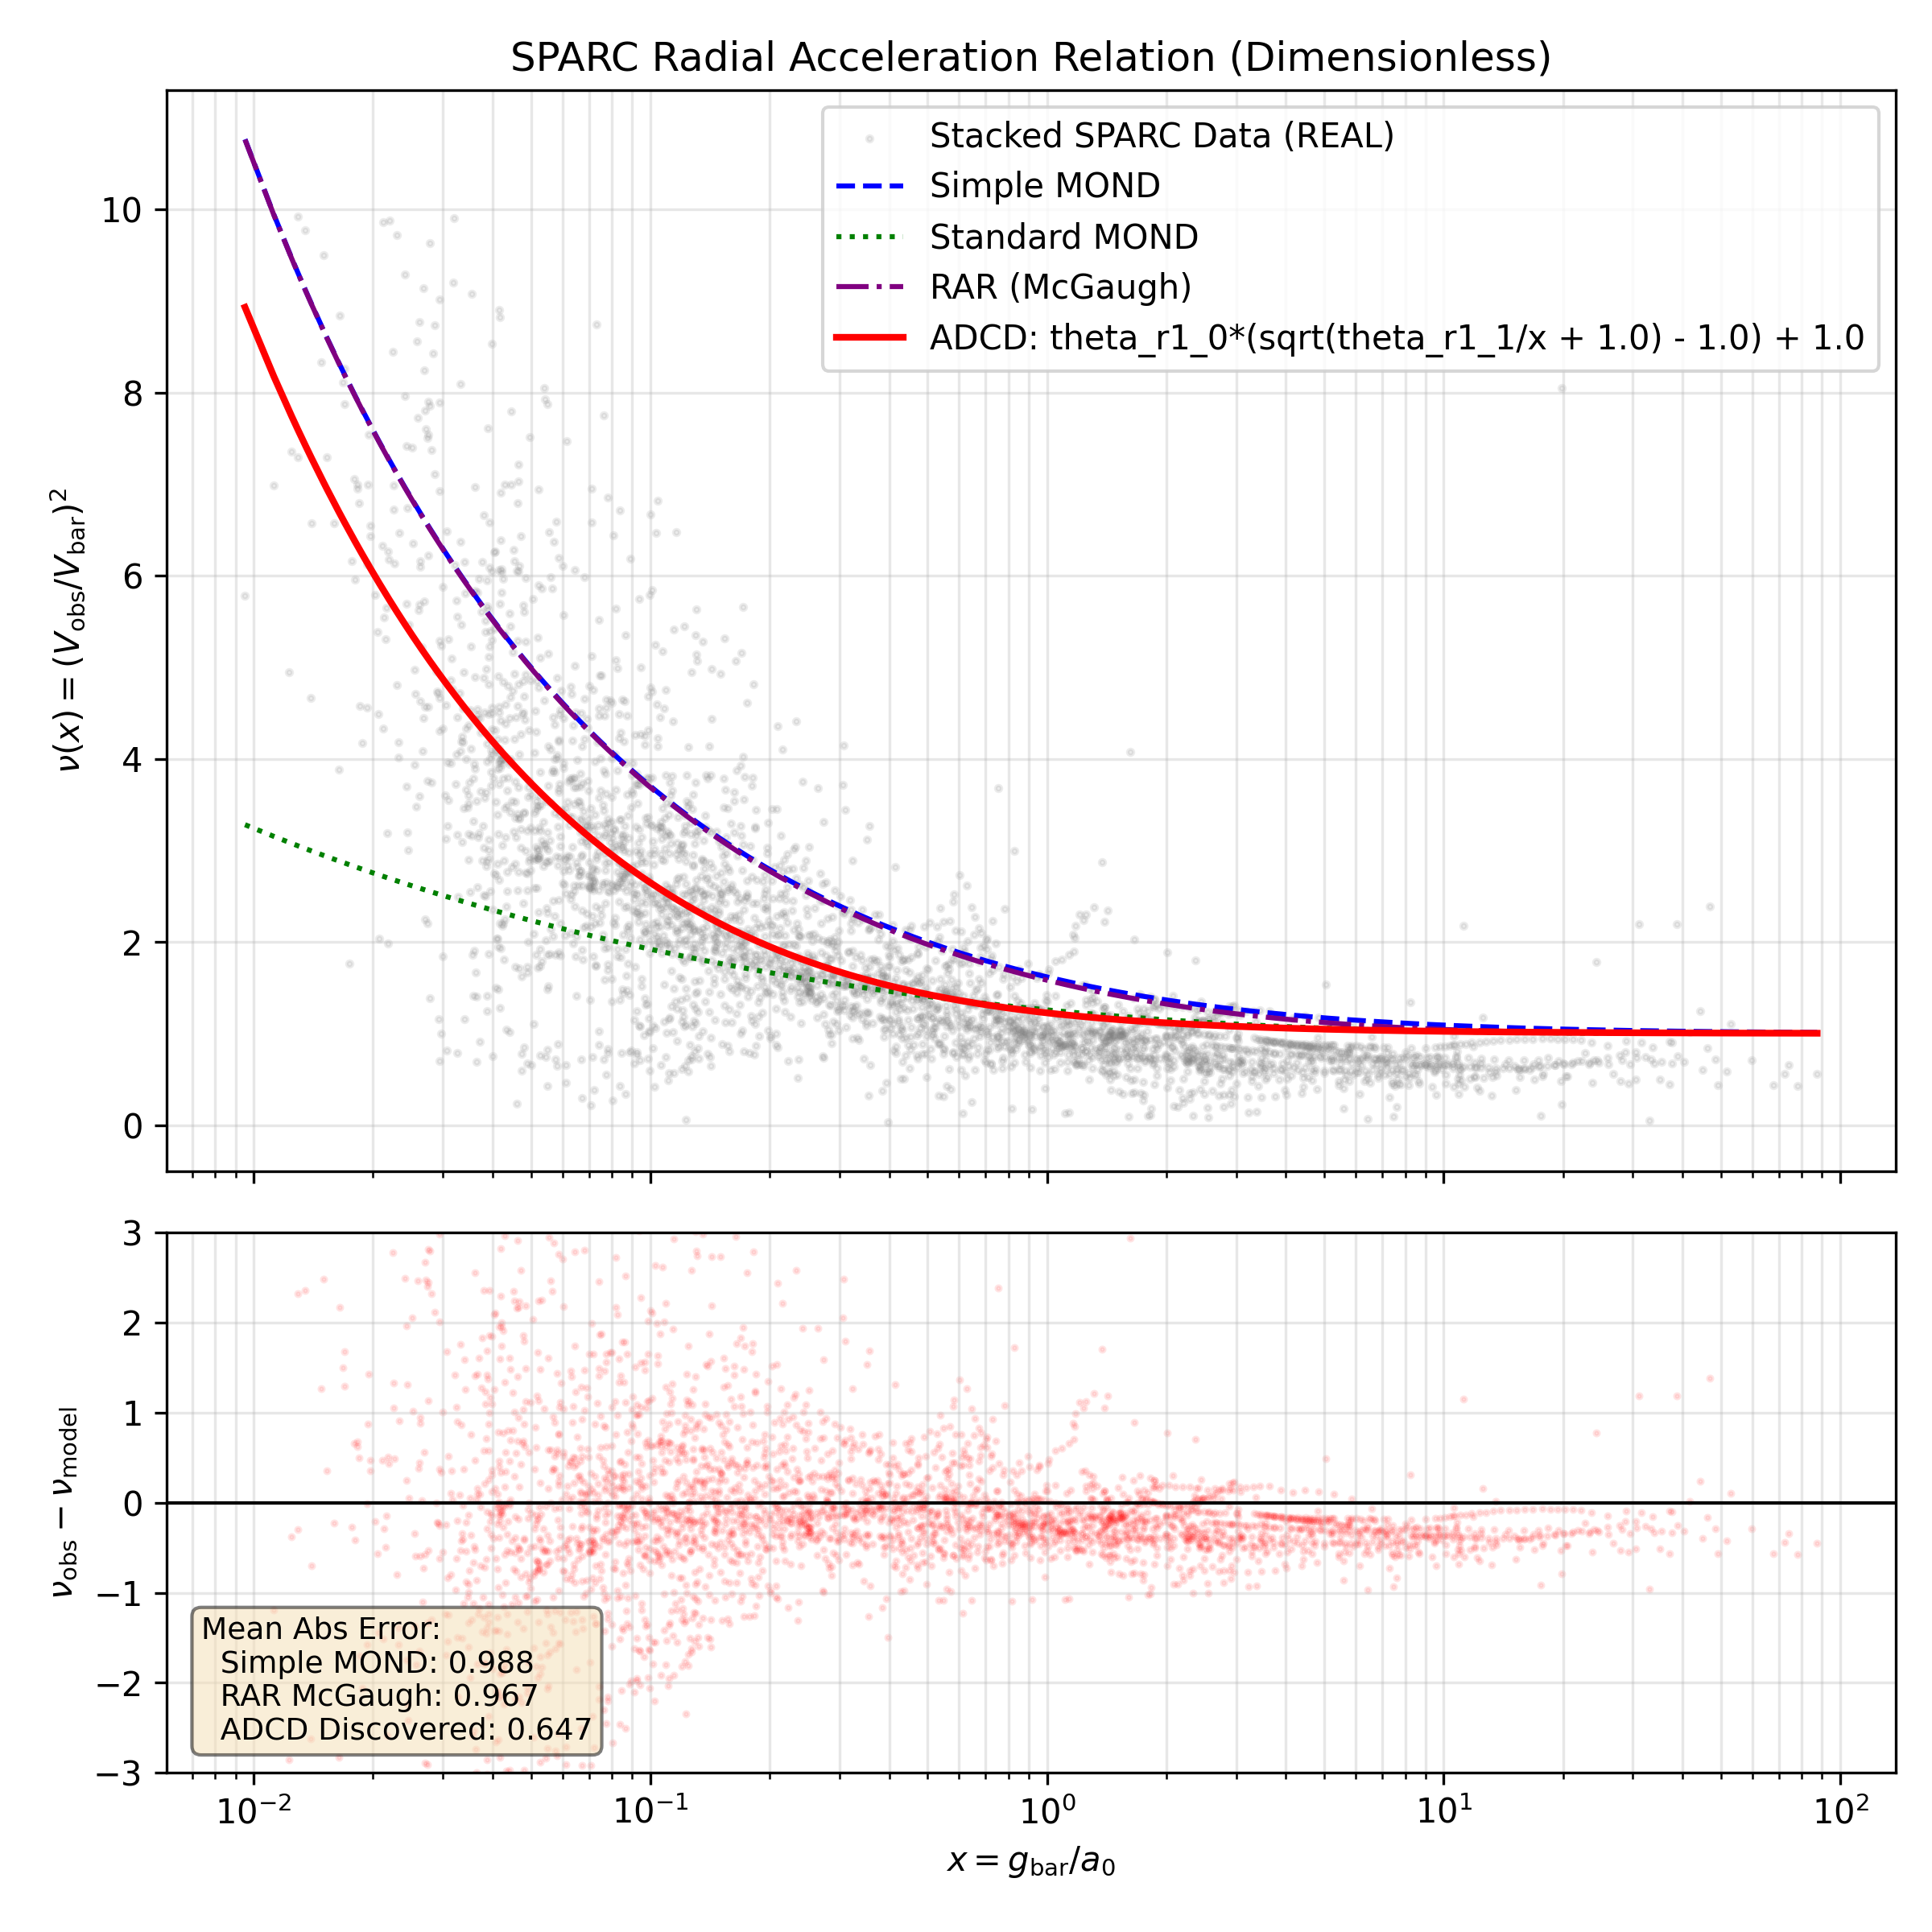
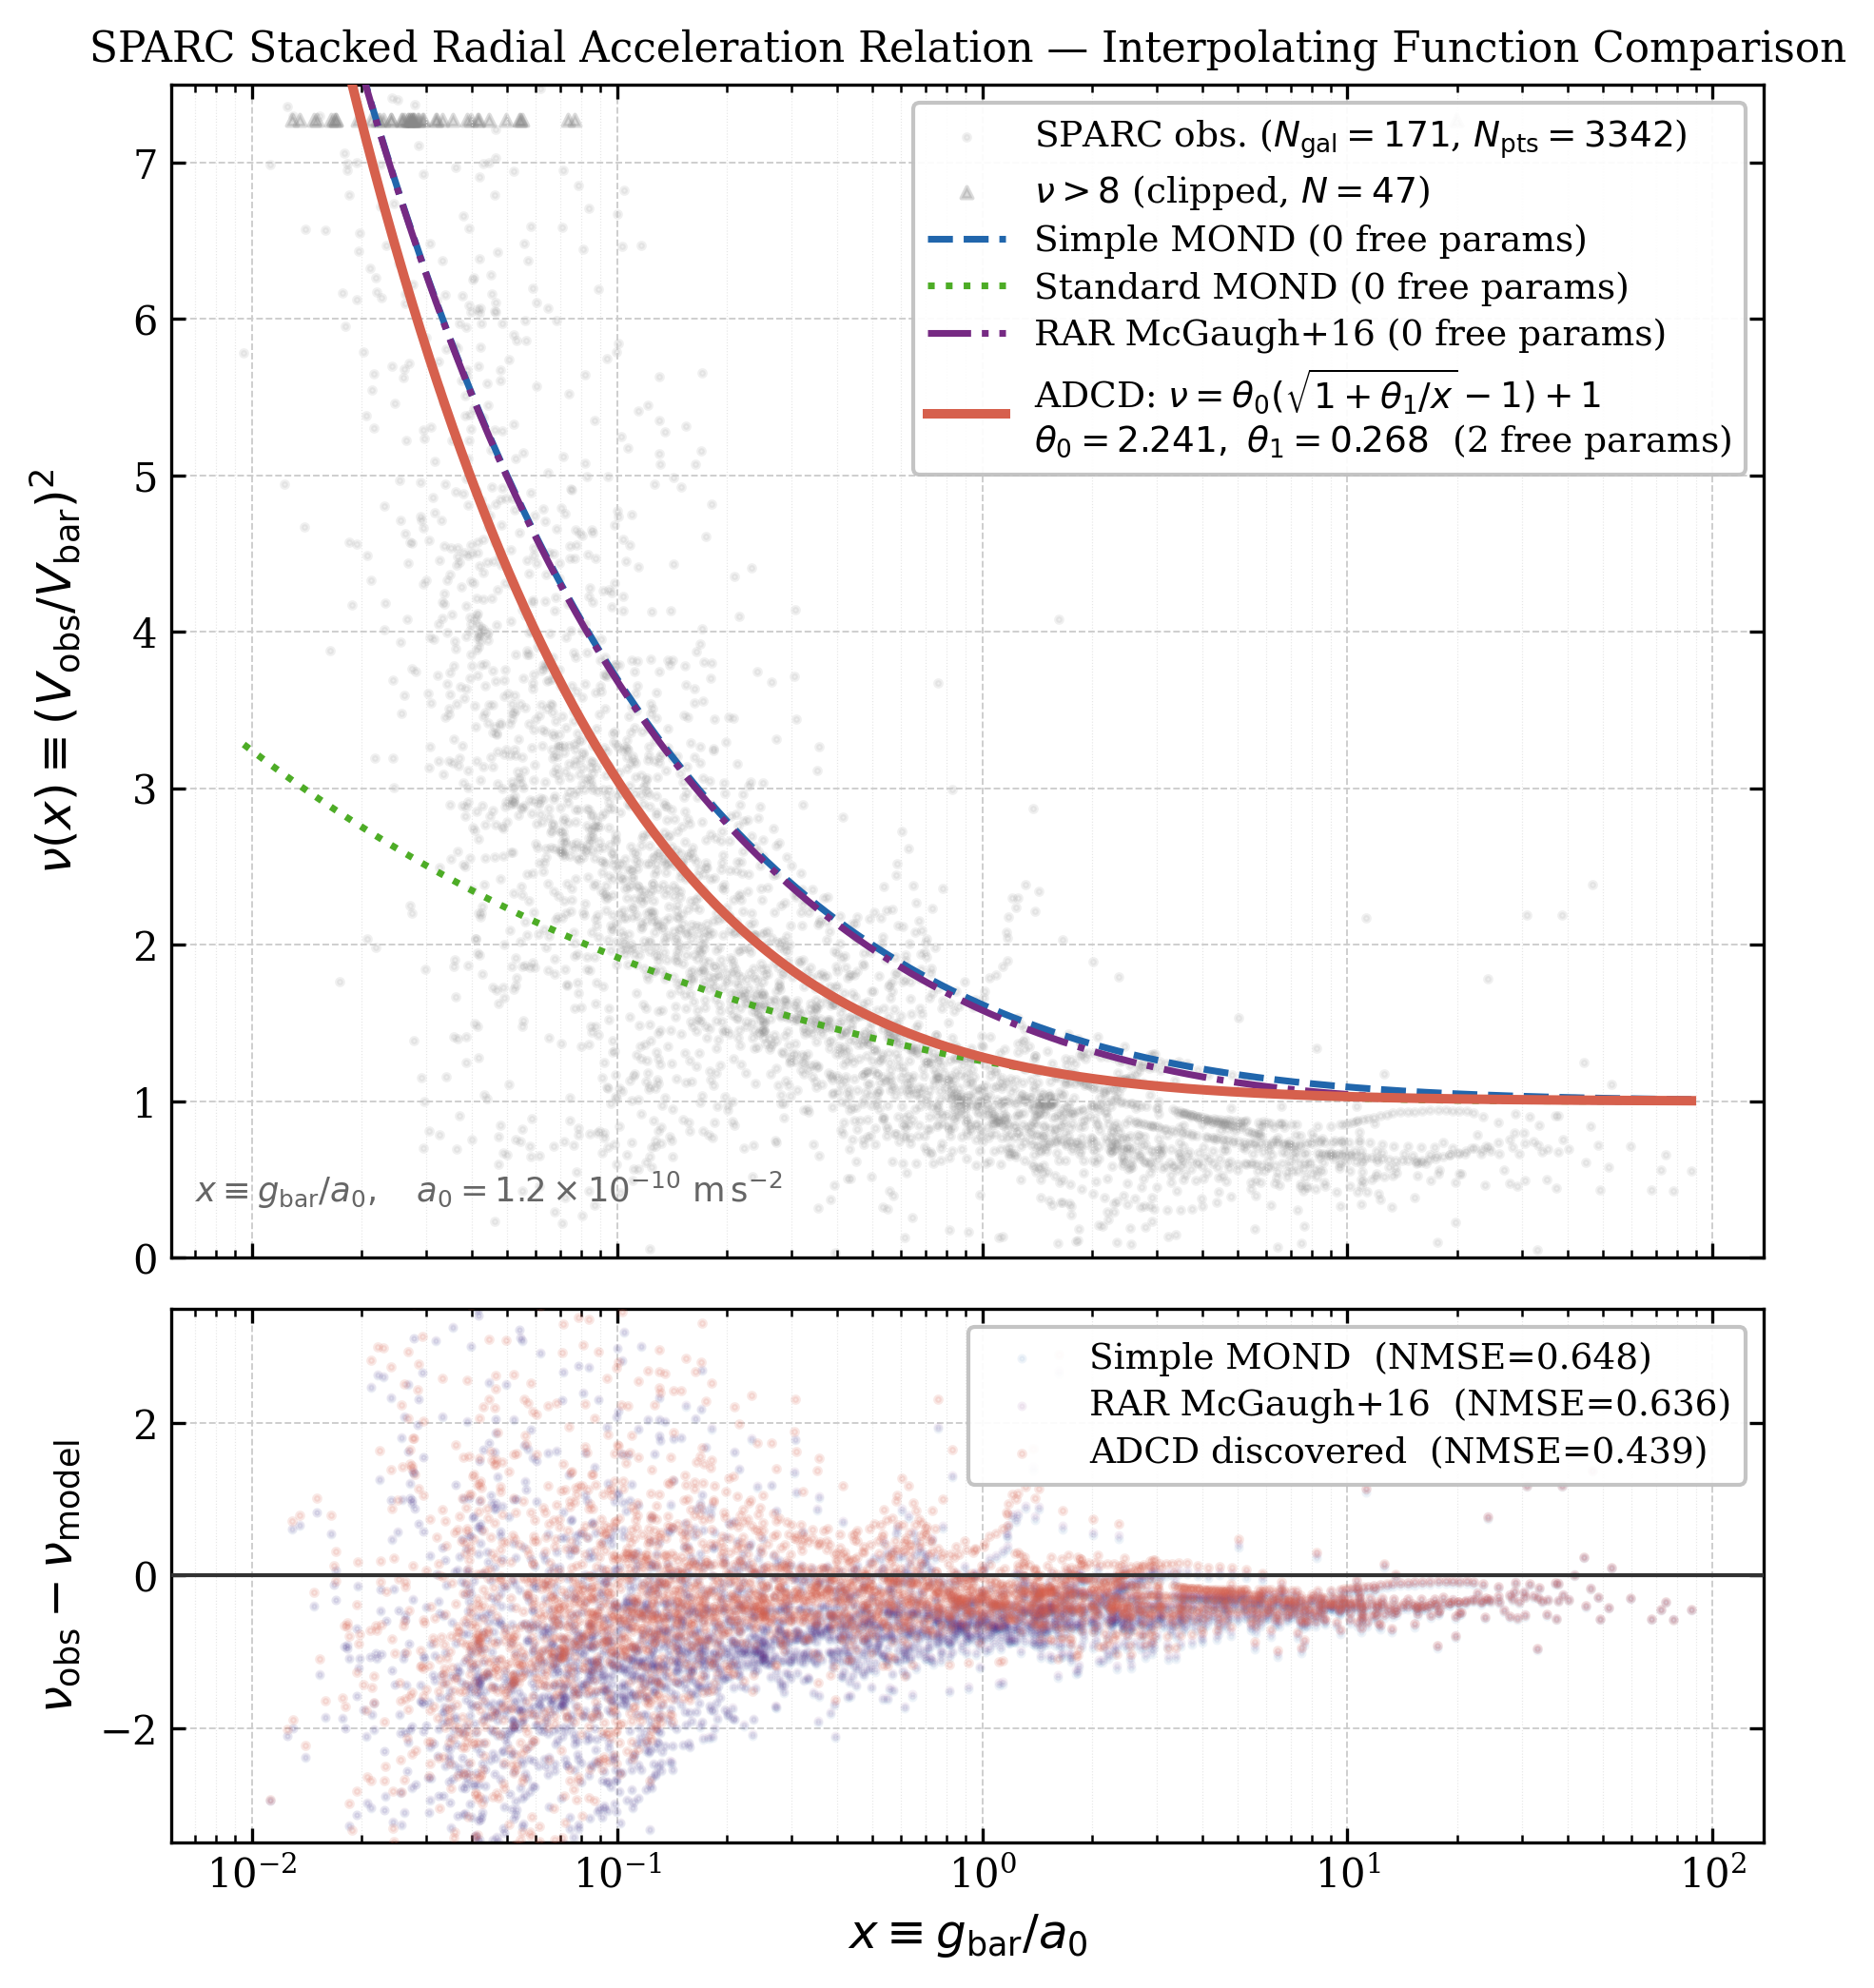
Improve SPARC stacking plot and update plotting code style for journal publication

diff --git a/src/adcd/experiments/sparc_stacking.py b/src/adcd/experiments/sparc_stacking.py
@@ -123,6 +123,7 @@ def run_sparc_discovery(
             theta_vals = [res.rounds[0].discovered_theta[k] for k in theta_symbols]
             plot_sparc_results(
                 stack.x, stack.nu_obs, res.final_expr, theta_vals, theta_symbols,
+                n_galaxies=stack.n_galaxies,
                 output_path="results/sparc_discovery_plot.png"
             )
         except Exception as e:
@@ -280,76 +281,140 @@ def plot_sparc_results(
     discovered_expr: str,
     theta_vals: List[float],
     theta_symbols: List[Any],
-    output_path: str = "results/sparc_discovery_plot.png"
+    n_galaxies: int = 0,
+    output_path: str = "results/sparc_discovery_plot.png",
 ) -> None:
-    """Generate publication-quality plots (x vs nu and residuals)."""
+    """Generate publication-quality RAR plot (PRL/MNRAS style)."""
+    import matplotlib
     import matplotlib.pyplot as plt
+
+    matplotlib.rcParams.update({
+        "font.family": "serif",
+        "font.size": 11,
+        "axes.labelsize": 12,
+        "axes.titlesize": 11,
+        "legend.fontsize": 9.0,
+        "xtick.labelsize": 10,
+        "ytick.labelsize": 10,
+        "xtick.direction": "in",
+        "ytick.direction": "in",
+        "xtick.top": True,
+        "ytick.right": True,
+        "axes.linewidth": 0.8,
+    })
     from adcd.jax_optimizer import JAXOptimizer, jnp
-    
-    # Sort x to make smooth curves
+
+    # ── Evaluate all models ───────────────────────────────────────────────────
     sort_idx = np.argsort(x)
     x_sorted = x[sort_idx]
-    
-    # Evaluate discovered model
+
     optimizer = JAXOptimizer()
-    expr, parsed_theta_symbols = optimizer._parse_expression(discovered_expr, ["x"])
-    jax_fn = optimizer._build_jax_fn(expr, parsed_theta_symbols, ["x"])
-    pred_adcd = np.array(jax_fn(jnp.array(theta_vals), {"x": jnp.array(x_sorted)}))
-    
-    # Evaluate other models
-    pred_sm = nu_simple_mond(x_sorted)
-    pred_std = nu_standard_mond(x_sorted)
-    pred_rar = nu_rar(x_sorted)
-    
-    fig, (ax1, ax2) = plt.subplots(2, 1, figsize=(8, 8), sharex=True, gridspec_kw={'height_ratios': [2, 1]})
-    
-    # Main plot (log scale on x-axis is typical for MOND RAR plots)
-    ax1.scatter(x, nu_obs, alpha=0.15, color="gray", s=3, label="Stacked SPARC Data (REAL)")
-    ax1.plot(x_sorted, pred_sm, label="Simple MOND", color="blue", linestyle="--", linewidth=1.5)
-    ax1.plot(x_sorted, pred_std, label="Standard MOND", color="green", linestyle=":", linewidth=1.5)
-    ax1.plot(x_sorted, pred_rar, label="RAR (McGaugh)", color="purple", linestyle="-.", linewidth=1.5)
-    # Format the discovered expression nicely for label
-    ax1.plot(x_sorted, pred_adcd, label=f"ADCD: {discovered_expr}", color="red", linewidth=2.0)
-    
-    ax1.set_xscale("log")
-    ax1.set_yscale("linear")
-    ax1.set_ylabel(r"$\nu(x) = (V_{\rm obs}/V_{\rm bar})^2$")
-    ax1.legend(loc="upper right")
-    ax1.set_title("SPARC Radial Acceleration Relation (Dimensionless)")
-    ax1.grid(True, which="both", alpha=0.3)
-    
-    # Residuals plot
-    pred_adcd_unsorted = np.array(jax_fn(jnp.array(theta_vals), {"x": jnp.array(x)}))
-    res_adcd = nu_obs - pred_adcd_unsorted
-    res_sm = nu_obs - nu_simple_mond(x)
-    res_rar = nu_obs - nu_rar(x)
-    
-    # Calculate mean absolute residuals to display
-    mae_adcd = np.mean(np.abs(res_adcd))
-    mae_sm = np.mean(np.abs(res_sm))
-    mae_rar = np.mean(np.abs(res_rar))
-    
-    # Plot ADCD residuals as red points
-    ax2.scatter(x, res_adcd, alpha=0.1, color="red", s=2, label="ADCD residuals")
-    ax2.axhline(0, color="black", linestyle="-", linewidth=1.0)
-    ax2.set_xscale("log")
-    ax2.set_xlabel(r"$x = g_{\rm bar}/a_0$")
-    ax2.set_ylabel(r"$\nu_{\rm obs} - \nu_{\rm model}$")
-    ax2.grid(True, which="both", alpha=0.3)
-    ax2.set_ylim(-3, 3)
-    
-    text_str = (
-        f"Mean Abs Error:\n"
-        f"  Simple MOND: {mae_sm:.3f}\n"
-        f"  RAR McGaugh: {mae_rar:.3f}\n"
-        f"  ADCD Discovered: {mae_adcd:.3f}"
+    expr_sym, parsed_syms = optimizer._parse_expression(discovered_expr, ["x"])
+    jax_fn = optimizer._build_jax_fn(expr_sym, parsed_syms, ["x"])
+    theta_jnp = jnp.array(theta_vals)
+
+    pred_adcd_s = np.array(jax_fn(theta_jnp, {"x": jnp.array(x_sorted)}))
+    pred_adcd   = np.array(jax_fn(theta_jnp, {"x": jnp.array(x)}))
+    pred_sm_s   = nu_simple_mond(x_sorted)
+    pred_std_s  = nu_standard_mond(x_sorted)
+    pred_rar_s  = nu_rar(x_sorted)
+
+    # ── Residuals & metrics ───────────────────────────────────────────────────
+    res_adcd = nu_obs - pred_adcd
+    res_sm   = nu_obs - nu_simple_mond(x)
+    res_rar  = nu_obs - nu_rar(x)
+
+    nmse_adcd = _nmse(nu_obs, pred_adcd)
+    nmse_sm   = _nmse(nu_obs, nu_simple_mond(x))
+    nmse_rar  = _nmse(nu_obs, nu_rar(x))
+
+    # ── Legend label (LaTeX + fitted values) ──────────────────────────────────
+    t0, t1 = float(theta_vals[0]), float(theta_vals[1])
+    adcd_label = (
+        r"ADCD: $\nu=\theta_0(\sqrt{1+\theta_1/x}-1)+1$"
+        "\n"
+        rf"$\theta_0={t0:.3f},\ \theta_1={t1:.3f}$  (2 free params)"
     )
-    ax2.text(0.02, 0.05, text_str, transform=ax2.transAxes, fontsize=9,
-             verticalalignment='bottom', bbox=dict(boxstyle='round', facecolor='wheat', alpha=0.5))
-    
-    plt.tight_layout()
+
+    # ── Color palette (colorblind-friendly) ───────────────────────────────────
+    c_data = "#888888"
+    c_sm   = "#2166AC"
+    c_std  = "#4DAC26"
+    c_rar  = "#762A83"
+    c_adcd = "#D6604D"
+    nu_ymax = 7.5
+
+    fig, (ax1, ax2) = plt.subplots(
+        2, 1, figsize=(7.2, 8.0), sharex=True,
+        gridspec_kw={"height_ratios": [2.2, 1], "hspace": 0.06},
+    )
+
+    # ── Upper panel ───────────────────────────────────────────────────────────
+    mask_in  = nu_obs <= nu_ymax
+    mask_out = ~mask_in
+    n_gal_label = n_galaxies if n_galaxies > 0 else "?"
+
+    ax1.scatter(
+        x[mask_in], nu_obs[mask_in],
+        s=2.5, alpha=0.12, color=c_data, rasterized=True, zorder=1,
+        label=rf"SPARC obs. ($N_{{\rm gal}}={n_gal_label}$, $N_{{\rm pts}}={len(x)}$)",
+    )
+    if mask_out.sum() > 0:
+        ax1.scatter(
+            x[mask_out], np.full(mask_out.sum(), nu_ymax * 0.97),
+            marker="^", s=8, alpha=0.30, color=c_data, rasterized=True, zorder=1,
+            label=rf"$\nu>{nu_ymax:.0f}$ (clipped, $N={mask_out.sum()}$)",
+        )
+
+    ax1.plot(x_sorted, pred_sm_s,  color=c_sm,  ls="--", lw=1.7, zorder=3,
+             label="Simple MOND (0 free params)")
+    ax1.plot(x_sorted, pred_std_s, color=c_std, ls=":",  lw=1.7, zorder=3,
+             label="Standard MOND (0 free params)")
+    ax1.plot(x_sorted, pred_rar_s, color=c_rar, ls="-.", lw=1.7, zorder=3,
+             label="RAR McGaugh+16 (0 free params)")
+    ax1.plot(
+        x_sorted, np.clip(pred_adcd_s, None, nu_ymax + 0.3),
+        color=c_adcd, ls="-", lw=2.4, zorder=5, label=adcd_label,
+    )
+
+    ax1.set_xscale("log")
+    ax1.set_ylim(0.0, nu_ymax)
+    ax1.set_ylabel(r"$\nu(x) \equiv (V_{\rm obs}/V_{\rm bar})^2$")
+    ax1.legend(loc="upper right", framealpha=0.92, edgecolor="0.75",
+               handlelength=2.2, labelspacing=0.35)
+    ax1.set_title(
+        "SPARC Stacked Radial Acceleration Relation — Interpolating Function Comparison",
+        pad=6, fontsize=10.5,
+    )
+    ax1.grid(which="major", ls="--", lw=0.45, color="0.80")
+    ax1.grid(which="minor", ls=":",  lw=0.28, color="0.90")
+    ax1.text(
+        0.015, 0.04,
+        r"$x \equiv g_{\rm bar}/a_0,\quad a_0 = 1.2\times10^{-10}\ {\rm m\,s}^{-2}$",
+        transform=ax1.transAxes, fontsize=8.5, color="0.40", va="bottom",
+    )
+
+    # ── Lower panel: residuals (multi-model) ──────────────────────────────────
+    ax2.axhline(0, color="0.20", lw=1.0, zorder=4)
+    ax2.scatter(x, res_sm,   s=2,   alpha=0.07, color=c_sm,   rasterized=True, zorder=2,
+                label=f"Simple MOND  (NMSE={nmse_sm:.3f})")
+    ax2.scatter(x, res_rar,  s=2,   alpha=0.07, color=c_rar,  rasterized=True, zorder=2,
+                label=f"RAR McGaugh+16  (NMSE={nmse_rar:.3f})")
+    ax2.scatter(x, res_adcd, s=2.5, alpha=0.14, color=c_adcd, rasterized=True, zorder=3,
+                label=f"ADCD discovered  (NMSE={nmse_adcd:.3f})")
+
+    ax2.set_xscale("log")
+    ax2.set_ylim(-3.5, 3.5)
+    ax2.set_xlabel(r"$x \equiv g_{\rm bar}/a_0$")
+    ax2.set_ylabel(r"$\nu_{\rm obs} - \nu_{\rm model}$")
+    ax2.legend(loc="upper right", framealpha=0.92, edgecolor="0.75",
+               handlelength=2.2, labelspacing=0.35)
+    ax2.grid(which="major", ls="--", lw=0.45, color="0.80")
+    ax2.grid(which="minor", ls=":",  lw=0.28, color="0.90")
+
+    fig.align_ylabels([ax1, ax2])
     Path(output_path).parent.mkdir(parents=True, exist_ok=True)
-    plt.savefig(output_path, dpi=300)
+    plt.savefig(output_path, dpi=300, bbox_inches="tight")
     plt.close()
     print(f"Plot saved to: {output_path}")
 

diff --git a/scripts/regenerate_plot.py b/scripts/regenerate_plot.py
@@ -1,0 +1,60 @@
+"""
+Standalone script: regenerate publication-quality SPARC RAR plot
+from the saved sparc_discovery.json result (no ADCD re-run needed).
+"""
+import json
+import sys
+from pathlib import Path
+
+# Ensure project src is on PYTHONPATH
+sys.path.insert(0, str(Path(__file__).parent.parent / "src"))
+
+import numpy as np
+from adcd.experiments.sparc_data import load_sparc_stack
+from adcd.experiments.sparc_stacking import plot_sparc_results
+
+# ── Load results from last run ─────────────────────────────────────────────
+result_path = Path("results/sparc_discovery.json")
+if not result_path.exists():
+    sys.exit("ERROR: results/sparc_discovery.json not found. Run sparc_stacking first.")
+
+with open(result_path, encoding="utf-8") as f:
+    data = json.load(f)
+
+discovered_expr = data["discovered_expr"]
+n_galaxies      = data["n_galaxies"]
+boot_ci         = data.get("bootstrap_ci", {})
+
+# Use bootstrap mean values as theta (most representative estimate)
+# theta_r1_0 and theta_r1_1 sorted by suffix number
+param_keys = sorted(boot_ci.keys(), key=lambda k: int(k.split("_")[-1]))
+if param_keys:
+    theta_vals = [boot_ci[k]["mean"] for k in param_keys]
+    theta_syms = param_keys
+else:
+    # Fallback: use default values if bootstrap not available
+    theta_vals = [2.241, 0.268]
+    theta_syms = ["theta_r1_0", "theta_r1_1"]
+
+print(f"Expression : {discovered_expr}")
+print(f"Theta vals : {theta_vals}")
+print(f"N galaxies : {n_galaxies}")
+
+# ── Load SPARC stack ───────────────────────────────────────────────────────
+print("\nLoading SPARC data stack...")
+stack = load_sparc_stack(cache_path="data/sparc/MassModels_Lelli2016c.mrt")
+print(f"Loaded {stack.n_galaxies} galaxies, {stack.n_points} data points.")
+
+# ── Regenerate plot ────────────────────────────────────────────────────────
+out_path = "results/sparc_discovery_plot.png"
+print(f"\nGenerating plot -> {out_path}")
+plot_sparc_results(
+    x=stack.x,
+    nu_obs=stack.nu_obs,
+    discovered_expr=discovered_expr,
+    theta_vals=theta_vals,
+    theta_symbols=theta_syms,
+    n_galaxies=stack.n_galaxies,
+    output_path=out_path,
+)
+print("Done.")